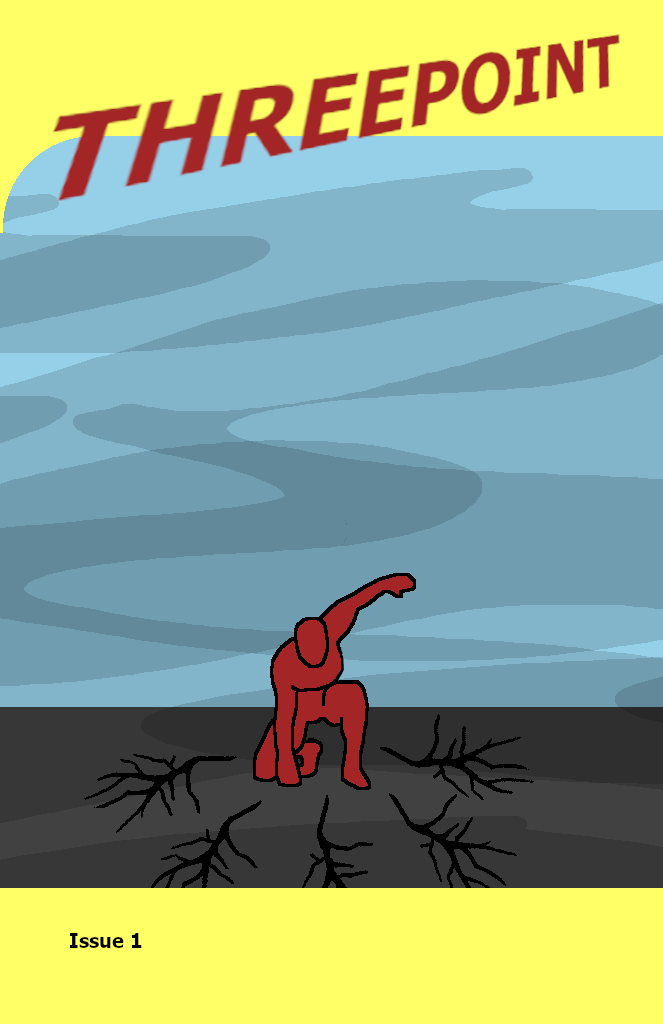
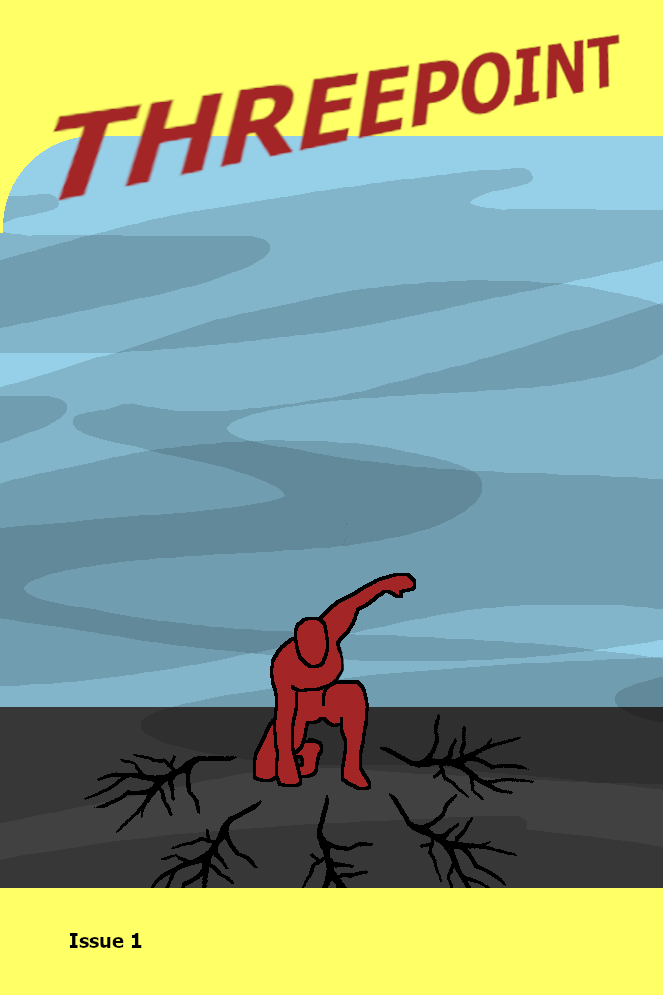
fixed default images for comic collection

diff --git a/frontend/src/components/ComicCard.vue b/frontend/src/components/ComicCard.vue
@@ -53,6 +53,8 @@
 
 <script>
 import CollectionService from '../services/CollectionService';
+import samplecomiccover from '../assets/sample-comic-cover.png';
+
 export default {
   name: "comic-card",
   props: ["comic", "collection"],
@@ -78,7 +80,7 @@ export default {
   computed: {
     imageUrl() {
       if (this.comic.coverUrl === null) {
-        return '../assets/sample-comic-cover.png';
+        return samplecomiccover;
       } else return this.comic.coverUrl;
     }
   }
